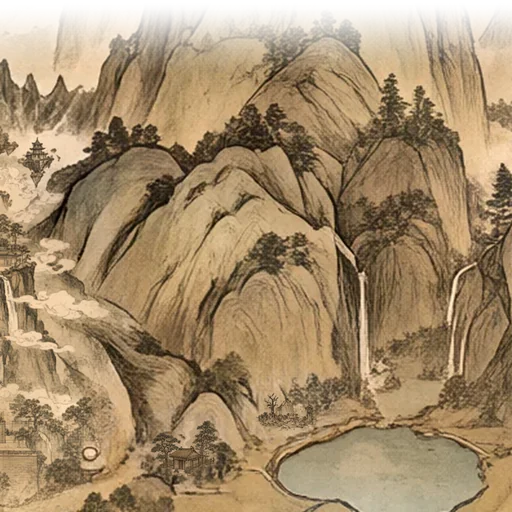
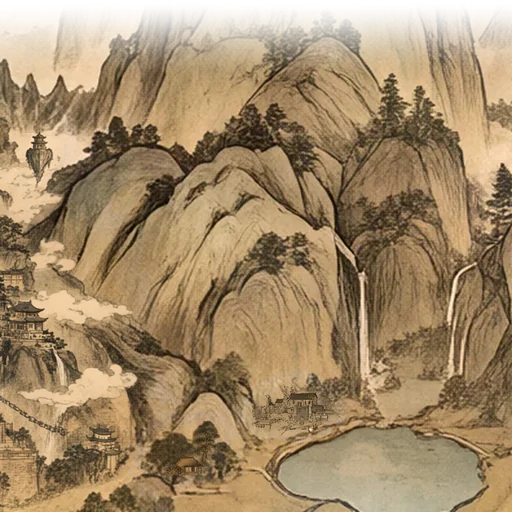
Bản đồ quận 5 vẽ lại: vùng khoanh cọ mềm trắng đặc có lồi lõm, nét cọ đậm, ghép không kéo sáng, mép ghép hẹp; xoá vòng tròn thừa trên tông môn; nơi nhỏ vẽ lại 75%

Changed region(s): [[0.0, 0.2188, 0.4375, 1.0], [0.4688, 0.75, 0.6562, 0.8438]]

diff --git a/tools/quan-phac.py b/tools/quan-phac.py
@@ -9,6 +9,7 @@ from scipy import ndimage as ndi
 def nap(ten, f): sp = importlib.util.spec_from_file_location(ten, f); m_ = importlib.util.module_from_spec(sp); sp.loader.exec_module(m_); return m_
 _argv = sys.argv; sys.argv = ['x']; lo = nap('lo', 'tools/quan-ve-lo.py'); sys.argv = _argv
 m = lo.m; pm = nap('pm', 'tools/phac-mau.py')
+os.environ.setdefault('KM_L', '0')  # ghép không kéo sáng nét (làm nhạt)
 
 TA = {'tong': "a grand and majestic immortal cultivation sect built on these mountains: many tiers of palace halls and pagodas on the summit and terraces, a long stone stairway from a memorial gateway at the foot, pavilions on the peaks behind, small mountains FLOATING in the sky with pavilions, waterfalls and iron chains to the summit, bands of white cloud drifting across",
       'thanh': "a large walled ancient Chinese city: crenellated grey stone walls, a big gate tower in the front wall, corner towers, a three-storey imperial palace and a tall pagoda at the back, rows of tiled roofs packed inside, pines",
@@ -23,9 +24,9 @@ TA = {'tong': "a grand and majestic immortal cultivation sect built on these mou
       'dongthien': "a cave-heaven: a carved stone gate in the rocks with mist, an old pine"}
 KHUNG = {'tong': 1280, 'thanh': 768}
 P = lambda t: ("Image 1 is a piece of an antique hand-painted Chinese fantasy world map. Paint into it " + TA[t] + ", following the composition already blocked in on the map "
-               "(the positions, sizes and shapes of every building, wall, tower, tree and rock). Painted in exactly the map's own style: fine brown-black ink pen lines, warm sepia, ochre and faded grey-green washes, "
-               "the same darkness and contrast as the mountains and trees around it. Seen from the front and above like the map, not isometric. Trees and rocks in front stay in front. "
-               "Keep everything outside it exactly as it is. No text.")
+               "(the positions, sizes and shapes of every building, wall, tower, tree and rock). Painted in exactly the map's own style: bold confident brush strokes with thick dark brown-black ink outlines and strong dark ink wash shading on roofs, cliffs and shadows, "
+               "as dark, heavy and high-contrast as the trees and mountains of the map, warm sepia, ochre and grey-green tones; not a thin technical line drawing, not pale. Seen from the front and above like the map, not isometric. Trees and rocks in front stay in front. "
+               "Keep everything outside it exactly as it is. No text, no circles, rings or map markers.")
 
 def m_tong_17(box, goc_size):
     """Tông môn 17 (quận 5): dựng theo khối núi thật trong khung 1280 (toạ độ đo trên bản đồ)."""
@@ -71,7 +72,7 @@ def lam_mot(q, n, k, che_do, seed):
     if che_do == 'phac': return 0
     t0 = time.time()
     for f in (f'qv{q}-v{k}-phac.png', f'qv{q}-v{k}-mn.png', f'qv{q}-v{k}-goc.png'): lo.up(d + 'ra/' + f)
-    w = m.wf_lp(f'qv{q}-v{k}-goc.png', P(t), seed, f'qv{q}-v{k}-qp', f'qv{q}-v{k}-mn.png', 'qwen', res=N, buoc=int(os.environ.get('QB', 14))); w['12']['inputs']['denoise'] = float(os.environ.get('DN', 0.85 if t == 'tong' else 0.9))  # tông môn 85%: bám phác hơn (90% dồn cả quần thể lên đỉnh)
+    w = m.wf_lp(f'qv{q}-v{k}-goc.png', P(t), seed, f'qv{q}-v{k}-qp', f'qv{q}-v{k}-mn.png', 'qwen', res=N, buoc=int(os.environ.get('QB', 14))); w['12']['inputs']['denoise'] = float(os.environ.get('DN', 0.9 if t in ('tong', 'thanh') else 0.75))  # nơi nhỏ 75%: 90% hay xoá trắng bản phác  # tông môn 85%: bám phác hơn (90% dồn cả quần thể lên đỉnh)
     w['22'] = {'class_type': 'LoadImage', 'inputs': {'image': f'qv{q}-v{k}-phac.png'}, '_meta': {'title': 'Sketch start'}}; w['18']['inputs']['pixels'] = ['22', 0]
     lo.chay(w, d + f'ra/g-v{k}-tot.png'); tg = time.time() - t0
     lam0 = Image.open(d + 'lam.png').convert('RGB'); m.ghep_k(q, k, d + f'ra/g-v{k}-tot.png', xuat_ngay=False)

diff --git a/tools/quan-ve.py b/tools/quan-ve.py
@@ -352,8 +352,15 @@ def ve_k(q, k, loai, seed=71, pid=None):
     yy, xx = np.mgrid[0:N, 0:N].astype(np.float32); X, Y = xx + x0, yy + y0
     rng = np.random.default_rng(seed + k); nz = ndi.gaussian_filter(rng.standard_normal((N, N)), 45); nz /= np.abs(nz).max()
     tamy = day - cao / 2; dy = (Y - tamy) / (cao / 2); dx = (X - cx) / rx
-    mk = (np.sqrt(dx * dx + dy * dy) + 0.15 * nz) < 1
-    mm = ndi.gaussian_filter(mk.astype(np.float32), 18)
+    # cọ mềm nhưng không phải elip đơn điệu: 3-5 chỗ lồi / lõm theo các hướng ngẫu nhiên + gợn mép to nhỏ
+    goc_ = np.arctan2(dy, dx); bk = np.ones_like(dx)
+    for _ in range(int(rng.integers(3, 6))):
+        th0 = rng.uniform(-np.pi, np.pi); w_ = rng.uniform(0.35, 0.8); a_ = rng.uniform(0.12, 0.32) * (1 if rng.random() < 0.7 else -0.6)
+        dth = np.angle(np.exp(1j * (goc_ - th0))); bk = bk + a_ * np.exp(-(dth / w_) ** 2)
+    nz2 = ndi.gaussian_filter(rng.standard_normal((N, N)), 14); nz2 /= np.abs(nz2).max()
+    mk = (np.sqrt(dx * dx + dy * dy) / bk + 0.18 * nz + 0.06 * nz2) < 1
+    f_ = max(4, N // 160)   # vùng vẽ trắng ĐẶC 100% bên trong, chỉ mềm một viền mảnh f_ đ.ả (mép nhoè rộng làm nơi vẽ mờ nhạt)
+    di_ = ndi.distance_transform_edt(mk) - ndi.distance_transform_edt(~mk); mm = np.clip((di_ + f_) / (2 * f_), 0, 1)
     bv = bao_ve(q, n['id'], x0, y0, N)
     mm = mm * (1 - bv); mk = mk & (bv < 0.5)
     lo = ndi.gaussian_filter(ndi.binary_erosion(mk, iterations=30).astype(np.float32), 20) * (1 - bv)
@@ -470,7 +477,7 @@ def ghep_k(q, k, anh, xuat_ngay=True):
     ra = Image.open(anh).convert('RGB').resize((N, N), Image.LANCZOS)
     m = np.asarray(Image.open(d + f'ra/qv{q}-v{k}-mn.png').convert('L'), np.float32)[..., None] / 255
     cu = np.asarray(lam.crop((v['x'], v['y'], v['x'] + N, v['y'] + N)), np.float32)
-    ra_ = np.asarray(ra, np.float32); out, _ = ghep_mem(cu, ra_, m[..., 0])
+    ra_ = np.asarray(ra, np.float32); out, _ = ghep_mem(cu, ra_, m[..., 0], rong=int(max(16, N * 0.03)))  # mép loang hẹp theo cỡ khung (110 cũ làm nhoè cả nơi nhỏ)
     lam.paste(Image.fromarray(out.astype(np.uint8)), (v['x'], v['y'])); lam.save(d + 'lam.png')
     luu_nd(q, k, cu, out)
     if not xuat_ngay: return

diff --git a/.claude/skills/ve-dia-diem-ban-do/SKILL.md b/.claude/skills/ve-dia-diem-ban-do/SKILL.md
@@ -34,6 +34,8 @@ description: Vẽ địa điểm (tông môn, thành, trấn, nơi nhỏ) thẳn
 - Thời gian quận 5 (17 nơi): lượt đầu 349 giây (Qwen 241: tông môn ~50, thành 16–22, nơi nhỏ 11–14); vẽ lại chỗ hỏng thêm ~6 phút.
 - Lỗi đã gặp: Qwen ra nhiễu lấm tấm / để trống khi bản phác nằm lệch ra mép (sửa chấm điểm vị trí); ở 90% Qwen có thể dồn quần thể lên đỉnh (thử 85% hoặc hạt giống khác).
 
+- Cập nhật 2026-11-28: vùng khoanh cọ mềm TRẮNG ĐẶC 100% (viền mềm ~N/160 đ.ả), hình elip có lồi lõm ngẫu nhiên; mép ghép hẹp (rong = 3% khung). Lời tả nét cọ đậm + `KM_L=0` (không kéo sáng) — trước đó nét mờ nhạt do mép nhoè rộng, lời tả "fine/faded" và ghép kéo sáng. Vẽ lại: tông môn / thành 90%, nơi nhỏ 75% (90% hay xoá trắng). Mặt nạ theo hình vector đã thử, bỏ (tông môn thưa nhạt). Klein vẽ theo phác: 58 giây, kiểu game — không dùng.
+
 ## Vẽ cả quận (cách cũ, chỉ Klein)
 1. Dọn `work/quan-<q>/ra` cũ, `cp nen.png lam.png`.
 2. `python tools/quan-ve-lo.py <q> [id ...]`: tông môn trước (Klein + 2 ảnh mẫu `qv5-ref-tong-1/2.png`, rồi Qwen 8 bước vẽ lại 60%, khung 1280), rồi thành (khung 768), nơi 1 ô (khung 640, cỡ tranh 1,6 = `VE_LUAT.co`) — đều chỉ Klein + 2 ảnh mẫu. Gọi thẳng ComfyUI ở 127.0.0.1:8000; mỗi nơi ~20–60 giây.
